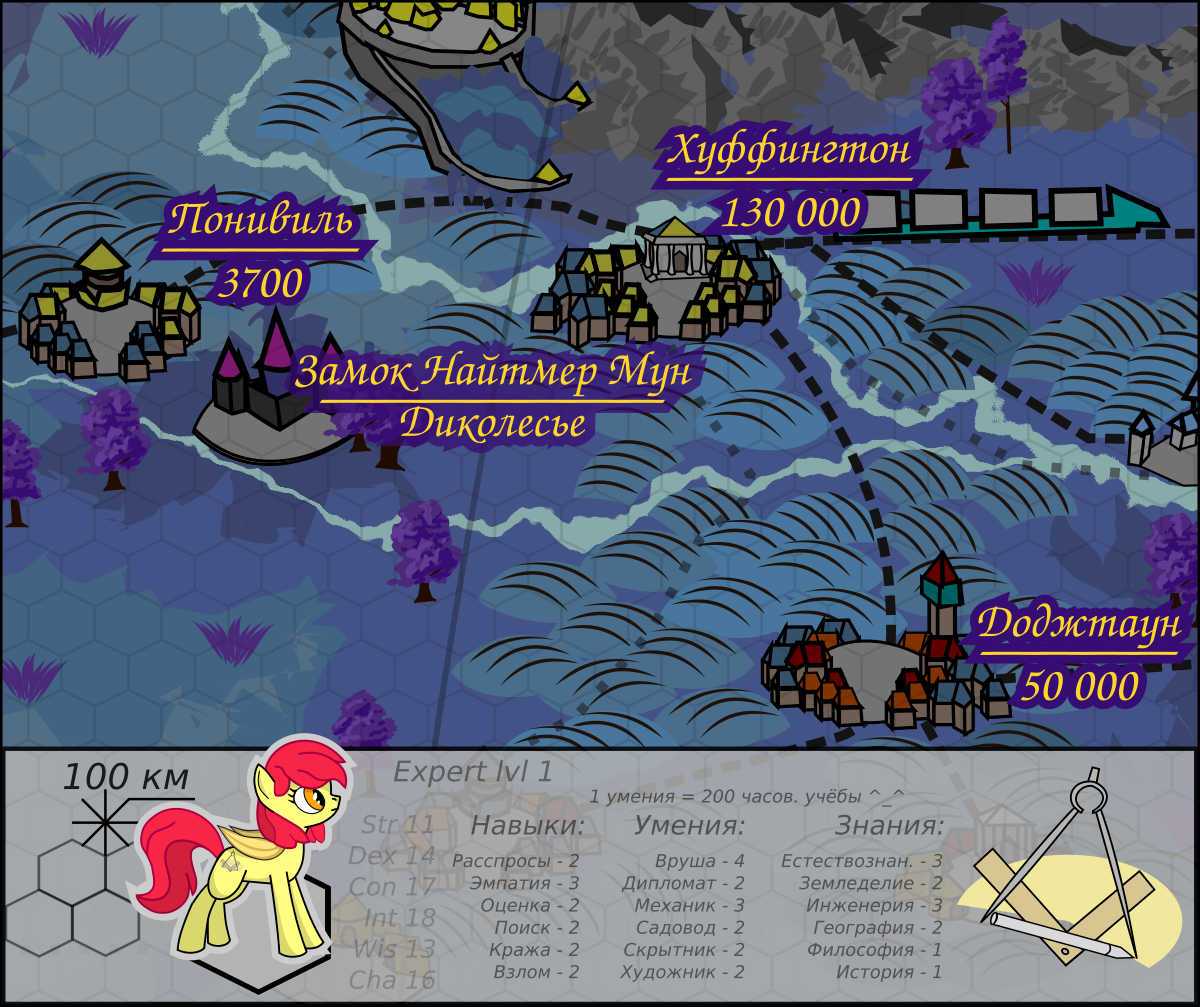
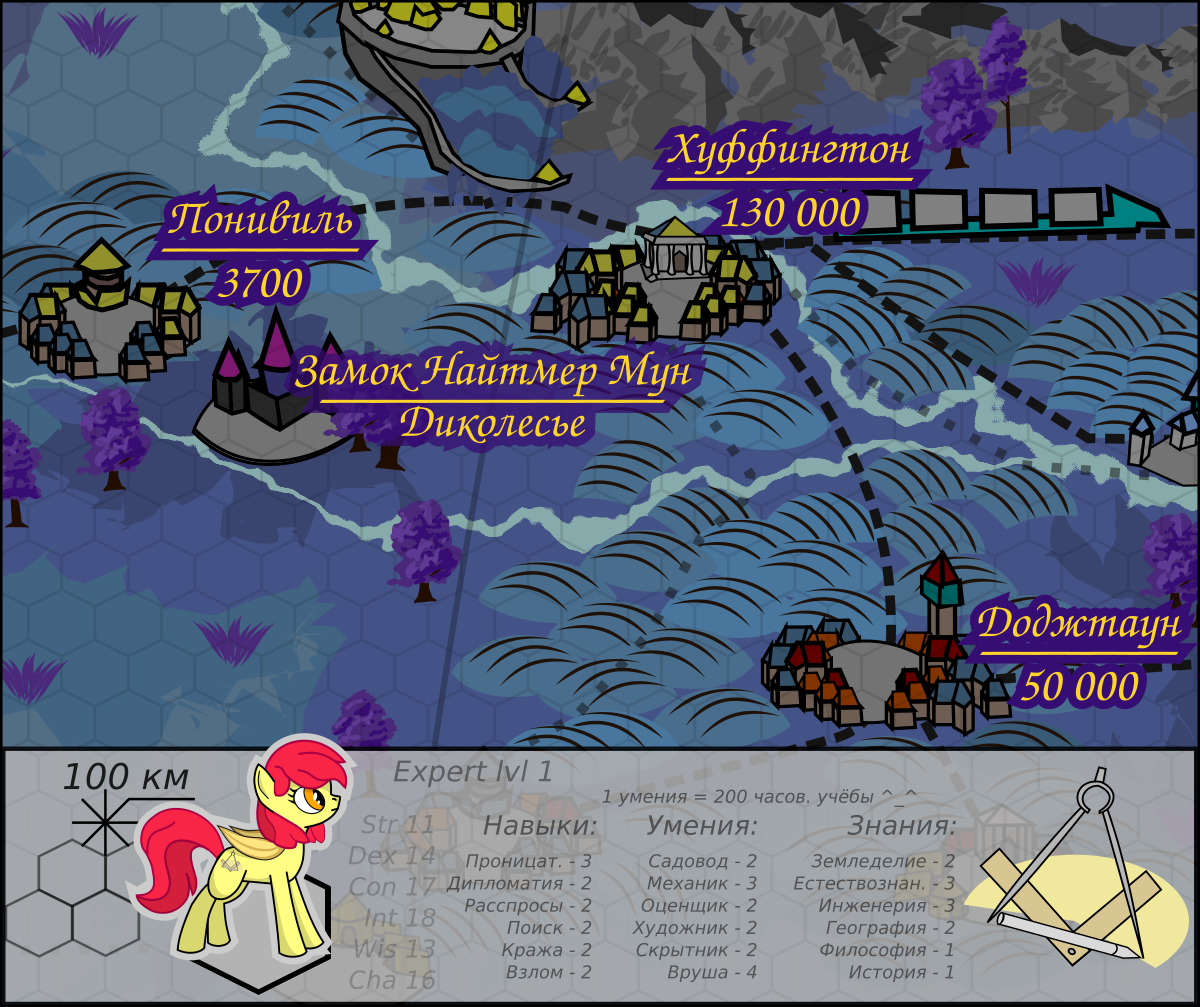
Иллюстрации, карточки Динки и Шайнинга

Changed region(s): [[0.4933, 0.7696, 1.0, 0.9851], [0.37, 0.8004, 0.4933, 0.9851]]

diff --git a/chapters/chapter_04.md b/chapters/chapter_04.md
@@ -562,6 +562,10 @@
 
 — Нет, я умею останавливать кровь. Пошли со мной? Я тебя с Бон познакомлю, ещё остался кусочек её замечательного пирога.
 
+## Карта
+
+![Карточка Твайли](/images/maps-new/ch04_3_Twily.png)
+
 ## POV Твайлайт
 
 Тысячи огней сияли в бухте Балтимэра. В воздухе роились светлячки, а под водой косяки столь же ярких рыб кружили спиралями, освещая собственным светом борта огромных парусных судов.
@@ -660,7 +664,7 @@
 
 А вот это было обидно. Эпплблум аж зубы сжала, прежде чем заговорить:
 
-— Знаешь что я делала прежде? Я искала друга. Я, блин, перерыла весь Понивиль, но не нашла никого, способного выдержать проверку. Трусы, тупицы, слабаки. Ты единственная — исключение. Ты нужна мне.
+— Знаешь что я делала прежде? Я искала друга. Я, блин, перерыла весь Понивиль, но не нашла никого, способного выдержать испытание. Трусы, тупицы, слабаки. Ты единственная — исключение. Ты нужна мне.
 
 Взгляд вцепился во взгляд. Скуталу давила словно каменной плитой. Она была чуть младше, но на пол-головы выше, заметно шире в плечах, да и просто, как пегас, гораздо сильнее. Почему все считали земнопони сильными? Тягать плуг от рассвета до заката, это что, сила?.. Как это, вообще, можно сравнивать с теми, кто способен летать?..
 
@@ -700,7 +704,7 @@
 
 Все командиры, её друзья и соратники, собрались здесь, на палубе их собственного фрегата — «Саншайн». Его близнец «Эквити» стоял рядом. В три полукруга выстроились остальные суда. Ленты на снастях блестели в свете ламп и летучих огней, небо над Балтимэром раскрашивали фейерверки — отплытие решили отметить большим праздником.
 
-Броня сдавливала бока — чувство неприятное, но привычное. Твайлайт иногда тренировалась двигаться в ней; она пообещала себе, что или научится превращать кристалл в полноценный щит за три секунды, или будет привыкать к доспехам. Первое пока не получалось. Шайнинг тихо радовался, когда она попросила научить, думал небось, что так сестрёнка пытается соответствовать званию командора. Впрочем, это тоже важно — экспедиция держалась на ней. Её не переставало удивлять, как все могут заниматься своими делами, даже не пытаясь охватить взглядом весь план. Все были такими недальновидными, даже Глоу, но она хотя бы признавала свои недостатки.
+Броня сдавливала бока — чувство неприятное, но привычное. Твайлайт иногда тренировалась двигаться в ней; она пообещала себе, что или научится превращать кристалл в полноценный щит за секунду, или будет привыкать к доспехам. Первое пока не получалось. Шайнинг тихо радовался, когда она попросила научить, думал небось, что так сестрёнка пытается соответствовать званию командора. Впрочем, это тоже важно — экспедиция держалась на ней. Её не переставало удивлять, как все могут заниматься своими делами, даже не пытаясь охватить взглядом весь план. Все были такими недальновидными, даже Глоу, но она хотя бы признавала свои недостатки.
 
 Глоу тоже стояла рядом, блестя изумрудной шёрсткой и белой полосой гривы. Теплом в груди до сих пор отдавалось прикосновение её копыт, и в стократ лучше согревал огонёк жизни в глазах. Из Кантерлота ушла тень, а вернулась любимая подруга. Вместе с ней пришёл Гринблэйд, собрав весь свой отряд; в поход решил выйти прославленный сэр Блэкстоун, и лучшие ветераны гвардии последовали за ним; и, конечно же, к путешествию в неизвестность присоединилась вся команда Вондерболтс.
 
@@ -724,9 +728,9 @@
 
 — СЛУШАЙТЕ ВСЕ! — крик заставил уши поджаться. — На нашем пути к Солнцу всего один океан! Перешагнём его! Вперёд! К рассвету!
 
-Твайлайт выдохнула. «Начинаем», — она приказала в амулет, и давно ждавшие приказа Вондерболты взлетели. Шесть, восемь, десять — полная дюжина — обратным клином они пронеслись над бухтой, оставляя позади себя полосы дыма и многоцветного огня. Второй проход, теперь со стороны Балтимэра, и за Вондерболтами последовали остальные пегасы: команды кораблей, провожающие, городские. Огромным, ярко светящимся хороводом они окружили стоящие в бухте суда.
+Твайлайт выдохнула. «Начинаем», — она приказала в амулет, и давно ждавшие команды Вондерболты взлетели. Шесть, восемь, десять — полная дюжина — обратным клином они пронеслись над бухтой, оставляя позади себя полосы дыма и многоцветного огня. Второй проход, теперь со стороны Балтимэра, и за Вондерболтами последовали остальные пегасы: команды кораблей, провожающие, городские. Огромным, ярко светящимся хороводом они окружили стоящие в бухте суда.
 
-Кольцо пегасов поднималось, воздушные акробаты делились на тройки, командиры крыльев вели своих друзей. Вскоре это было уже не кольцо, а огромный, всё ярче и ярче разгоравшийся над горизонтом шар. Фонарики, тысячи фонариков: их разноцветные лучи сливались, заполняя и бухту, и город мягким оттенком рассвета. Гуляли волны, ветер свистел, но Твайлайт знала, что ливня не будет. Где угодно, но точно не здесь и не сейчас.
+Кольцо пегасов поднималось, воздушные акробаты делились на тройки, командиры крыльев вели своих друзей. Вскоре это было уже не кольцо, а огромный, всё ярче и ярче разгоравшийся над горизонтом шар. Фонарики, тысячи фонариков: их разноцветные лучи сливались, заполняя и бухту, и город мягким оттенком рассвета. Гуляли волны, свистел ветер, но Твайлайт знала, что ливня не будет. Где угодно, но точно не здесь и не сейчас.
 
 Пегасы обещали нечто особенное, и они превзошли себя: сияющее пятно вдруг дополнило вышедший из-за горизонта линией. Небо осветилось, яркая полоса очертила горизонт. Уже не тысячи, десятки тысяч пегасов: вся погодная служба, все команды городов — фонариками, обычными фонариками — они показали Эквестрии рассвет.
 

diff --git a/chapters/chapter_05.md b/chapters/chapter_05.md
@@ -2,7 +2,7 @@
 
 ## Карта
 
-![Карта Лайфстрима](/images/maps/ch05_map_lifestream.png)
+![Карточка Динки](/images/maps-new/ch05_1_Dinky.png)
 
 ## POV Динки
 
@@ -41,6 +41,8 @@
 А он не понимал. Печалечка. Впрочем, для того-то и трудились мастера подземелий, чтобы в ресторане «Союз веселья и циферок» всем было хорошо. И Дёрпи, которая мелкой крапинкой расставляла отдельные деревеньки, и циферколюбу с его чародее-вором-паладином, и даже милашке-мышепони, всем замечательной, если бы не её привычка играть эпикой против всех. Ах да, скромной кобылке-менестрелю тоже, ведь именно барды были классом мастеров!
 
 — Ну что, приступим? — Динки поднялась.
+
+[Тьма с Востока](http://tem-collection.narod.ru/0-tem-95/0-40-Shirer_song.mp3)  
 
 <span align="center"><em>
 Снова наползает Тьма с Востока  
@@ -111,7 +113,7 @@
 
 Энергии хватало: не с избытком, но хватало. На силе маховиков неслись поезда над магнитными дорогами, их же использовали чтобы поднимать воду, молоть зерно — да сотни и тысячи применений для маховиков находили пони: вся промышленность Эквестрии держалась на них. Твайлайт мечтательно улыбалась, прикрыв глаза. Когда-то пони сами тащили поезда над первыми магнитными дорогами. Сейчас это казалось таким нелепым. Эквестрия сильно изменилась за последние полсотни лет, все полюбили механику, а некоторые даже ценили её больше волшебства.
 
-В конструкции фрегатов были предусмотрены места для парных маховиков. Кристаллы пришлось взять у магнитной дороги: вся ветка к Эпплузе лишилась энергии — но это того стоило. Сделка обошлась роду Спарклов чуть ли не в четверть стоимости экспедиции, но это тоже стоило того. Безопасная частота вращения для такого маховика — двадцать тысяч оборотов в минуту. Его масса во вращении — триста пороховых бочек чистой кинетической энергии. Это бесперебойная работа систем вентиляции и водоснабжения; это мощнейшие роторные насосы, способные осушить любой отсек трюма всего за несколько минут; это винт переменного шага, пригодный, чтобы маневрировать в любой шторм. И самое важное — это несколько часов работы гиростабилизатора.
+В конструкции фрегатов были предусмотрены места для парных маховиков. Кристаллы пришлось взять у магнитной дороги: вся ветка к Эпплузе лишилась энергии — но это того стоило. Сделка обошлась роду Спарклов чуть ли не в четверть стоимости экспедиции, но это тоже стоило того. Безопасная частота вращения для такого маховика — тридцать тысяч оборотов в минуту. Его масса во вращении — триста пороховых бочек чистой кинетической энергии. Это бесперебойная работа систем вентиляции и водоснабжения; это мощнейшие роторные насосы, способные осушить любой отсек трюма всего за несколько минут; это винт переменного шага, пригодный, чтобы маневрировать в любой шторм. И самое важное — это несколько часов работы гиростабилизатора.
 
 Гироскопический успокоитель качки — если правильно называть — это всё тот же кристалл маховика, когда его ось подключена к раме. Гироскоп, вращаясь, всегда держится на линии горизонта, а раскрученный маховик никакие волны не заставят перевернуться: удары о борт будут просто компенсироваться энергией маховика. С включённым гиростабилизатором фрегат мог идти в любую бурю как по лёгким волнам. Твайлайт надеялась, что до этого не дойдёт: остальные суда куда хуже, это старые барки, часть даже с клёпанными корпусами. Но, по крайней мере, фрегаты могли прийти им на помощь если случится беда.
 
@@ -277,9 +279,13 @@
 
 Ещё долго с кормы плывущего вдаль корабля разносился смех пары нашедших друг друга жеребят.
 
+## Карта
+
+![Карточка Шайнинга](/images/maps-new/ch05_2_Shining.png)
+
 ## POV Твайлайт
 
-Четыре дня прошло, как экспедиция вышла из бухты Балтимэра, и впереди уже виднелся пролив Тёплых вод — северный выход из внутреннего моря.
+Пять дней прошло, как экспедиция вышла из бухты Балтимэра, и впереди уже виднелся пролив Тёплых вод — северный выход из внутреннего моря.
 
 Ветер нельзя было назвать попутным или особенно сильным, но благодаря пегасам парусники держали скорость в десять узлов — экспедиция не отставала от графика. Все работали, заканчивая последние приготовления: нужно было лучше утеплить жилые отсеки, ещё раз перепроверить запасы еды. Из Мэйнхеттена прибыли планёры с кипами тёплой одежды — комбинезонами, закрывающими тело от ушей до хвоста — обещание Твайлайт лично наведаться в картель портных сотворило чудо: то, что клялись доставить со дня на день уже полмесяца, привезли в течении нескольких часов.
 
@@ -595,9 +601,11 @@
 
 — А ещё проклятая кобылка занимает пол-седла…
 
-— Что? — Шайнинг удивился.
+— Что? — Шайнинг поднял бровь.
 
 — Песенка вспомнилась. Дёрпина. О нас всех.
+
+[Дорожная](http://tem-collection.narod.ru/3-Different/8-diff/diff-03-Dorozhnaja.mp3)  
 
 <span align="center"><em>
 Час пришел нам отправляться —  
